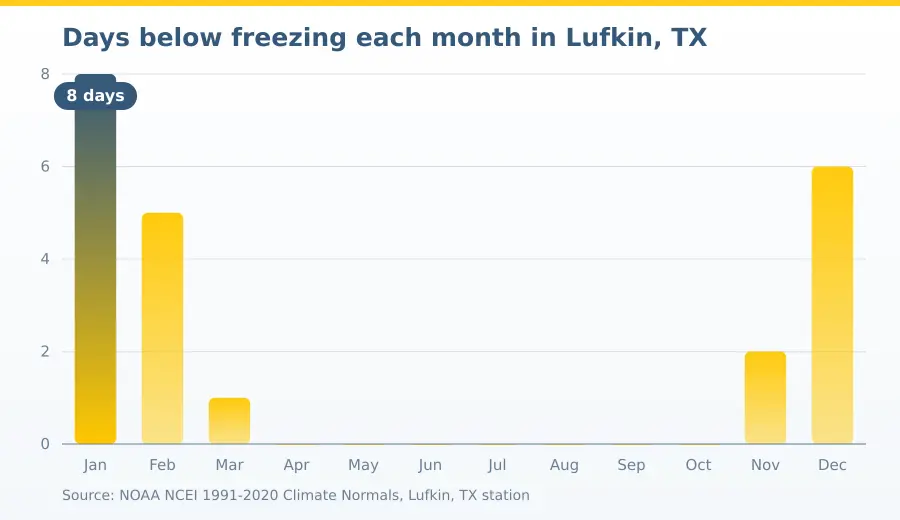
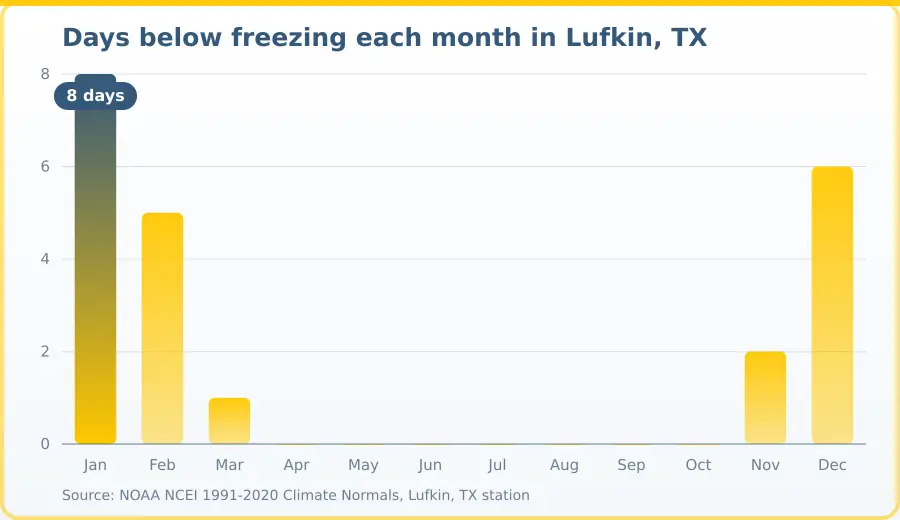
Frame the plugin images, and fix the chart cache that stopped them redrawing
A 4px rounded accent border around the chart and the area diagram.

Drawn INSIDE the SVG rather than as CSS on the <img>: it then travels with the image
everywhere it is used — page, panel, plugin sample gallery — and cannot restyle the site's
other photos. Inset by half the stroke, since a stroke straddles its path and would otherwise
be clipped in half at the canvas edge.

The border did not appear on the first rebuild, which exposed a real bug: the chart cached on
"does the WebP exist" alone, so once written a chart never changed again — not for new
figures, not for a new theme colour, not for a change to the drawing code. The area-map plugin
had already been fixed to compare the drawing itself; the chart had not. Now it does, so the
expensive rasterise is still skipped when nothing changed but an actual change lands.

Changed region(s): [[0.0, 0.0, 1.0, 1.0]]

diff --git a/plugins/image-data-chart/draw.php b/plugins/image-data-chart/draw.php
@@ -123,6 +123,12 @@ function city_chart_svg(array $series, array $def, string $title, array $theme =
         $o[] = '<text x="' . $padL . '" y="' . ($H - 20) . '" font-family="system-ui,-apple-system,Segoe UI,sans-serif"'
              . ' font-size="14" fill="' . $esc($muted) . '">' . $esc('Source: ' . $src) . '</text>';
     }
+    // A framing line around the whole picture. Drawn INSIDE the SVG rather than as CSS on the
+    // <img>, so it travels with the image everywhere it is used and never restyles the site's
+    // other photos. Inset by half the stroke, because a stroke straddles its path and would
+    // otherwise be clipped in half at the canvas edge.
+    $o[] = '<rect x="2" y="2" width="' . ($W - 4) . '" height="' . ($H - 4) . '" rx="16" fill="none" stroke="'
+         . $esc($accent) . '" stroke-opacity=".55" stroke-width="4"/>';
     $o[] = '</svg>';
     return implode("\n", $o);
 }
@@ -207,6 +213,12 @@ function city_chart_svg_compare(array $series, array $def, string $title, array 
         $o[] = '<text x="' . $padL . '" y="' . ($H - 22) . '" font-family="system-ui,-apple-system,Segoe UI,sans-serif"'
              . ' font-size="14" fill="' . $esc($muted) . '">' . $esc('Source: ' . $src) . '</text>';
     }
+    // A framing line around the whole picture. Drawn INSIDE the SVG rather than as CSS on the
+    // <img>, so it travels with the image everywhere it is used and never restyles the site's
+    // other photos. Inset by half the stroke, because a stroke straddles its path and would
+    // otherwise be clipped in half at the canvas edge.
+    $o[] = '<rect x="2" y="2" width="' . ($W - 4) . '" height="' . ($H - 4) . '" rx="16" fill="none" stroke="'
+         . $esc($accent) . '" stroke-opacity=".55" stroke-width="4"/>';
     $o[] = '</svg>';
     return implode("\n", $o);
 }

diff --git a/plugins/image-data-chart/render.php b/plugins/image-data-chart/render.php
@@ -40,12 +40,19 @@ function city_chart_render(string $siteDir, array $city, array $def, array $them
     $alt   = city_chart_text((string) ($def['alt'] ?? ($def['title'] ?? '')), $city, $def, $series);
 
     $p = city_chart_paths($siteDir, $city, $def);
-    if (!$force && is_file($p['webp'])) {
-        return ['path' => $p['url'] . '.webp', 'alt' => $alt, 'drawn' => false];
-    }
 
     $svg = city_chart_svg($series, $def, $title, $theme);
     if ($svg === '') return null;
+
+    // Cache on the DRAWING, not merely on the file existing — the same fix the area-map plugin
+    // already had. Checking is_file() alone meant a chart never changed once written: new
+    // figures, a new theme colour or a change to the drawing code all left the old picture in
+    // place, because the path is keyed on city + chart id and never varies. Comparing the SVG
+    // is cheap (pure string building) and still skips the expensive rasterise when nothing
+    // actually changed, so ten sites covering one city draw it once.
+    if (!$force && is_file($p['webp']) && is_file($p['svg']) && @file_get_contents($p['svg']) === $svg) {
+        return ['path' => $p['url'] . '.webp', 'alt' => $alt, 'drawn' => false];
+    }
     if (!is_dir(dirname($p['svg'])) && !@mkdir(dirname($p['svg']), 0775, true) && !is_dir(dirname($p['svg']))) return null;
     if (@file_put_contents($p['svg'], $svg) === false) return null;
 

diff --git a/plugins/image-area-map/draw.php b/plugins/image-area-map/draw.php
@@ -321,6 +321,12 @@ function city_map_svg(array $city, array $theme = []): string
     // silently fails and the page ships raw SVG.
     $o[] = '<text x="' . $cx . '" y="' . ($H - 22) . '" text-anchor="middle" font-family="system-ui,-apple-system,Segoe UI,sans-serif"'
          . ' font-size="16" fill="' . $esc($muted) . '">Areas served &#8212; coverage diagram, not to scale</text>';
+    // A framing line around the whole picture. Drawn INSIDE the SVG rather than as CSS on the
+    // <img>, so it travels with the image everywhere it is used and never restyles the site's
+    // other photos. Inset by half the stroke, because a stroke straddles its path and would
+    // otherwise be clipped in half at the canvas edge.
+    $o[] = '<rect x="2" y="2" width="' . ($W - 4) . '" height="' . ($H - 4) . '" rx="16" fill="none" stroke="'
+         . $esc($accent) . '" stroke-opacity=".55" stroke-width="4"/>';
     $o[] = '</svg>';
 
     return implode("\n", $o);
